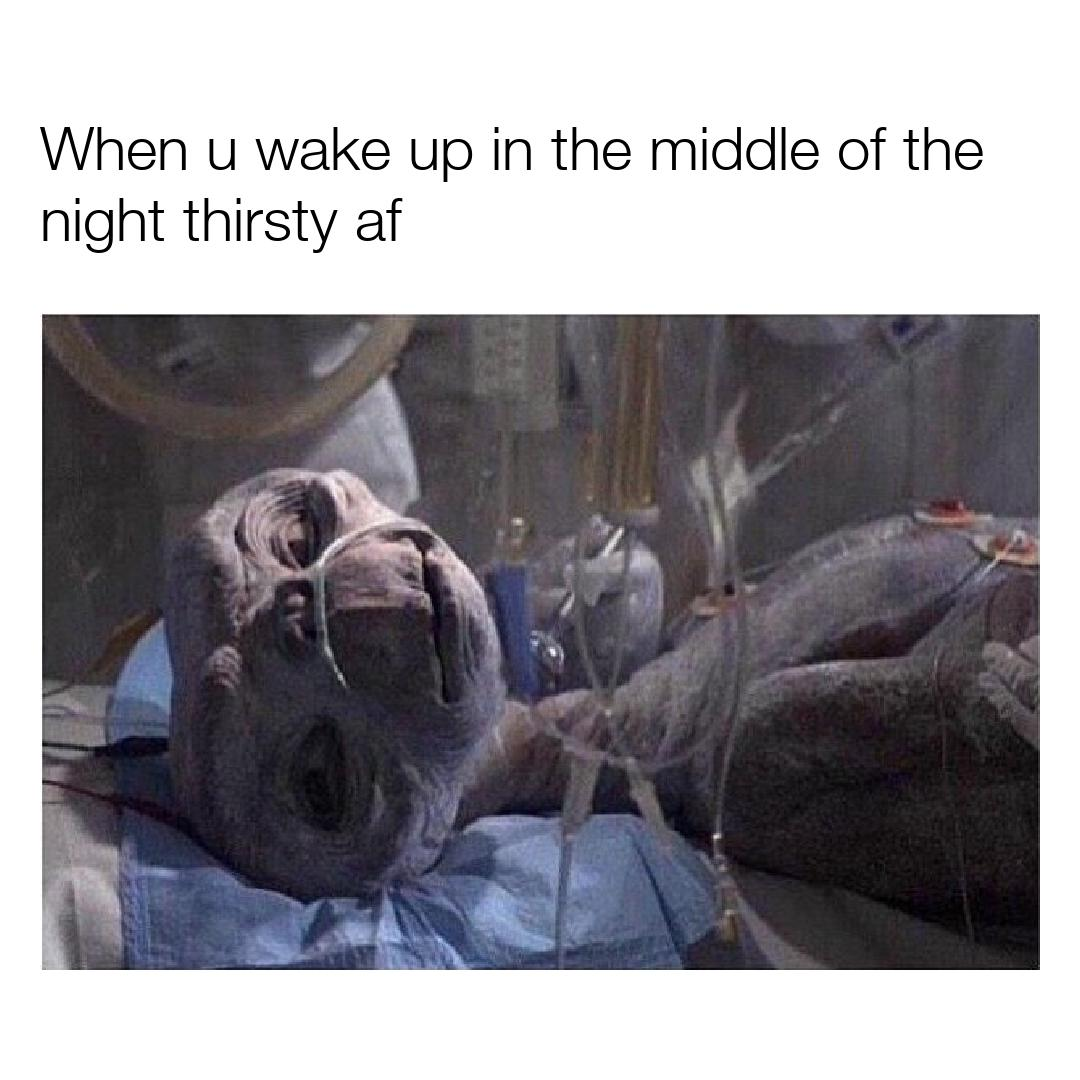
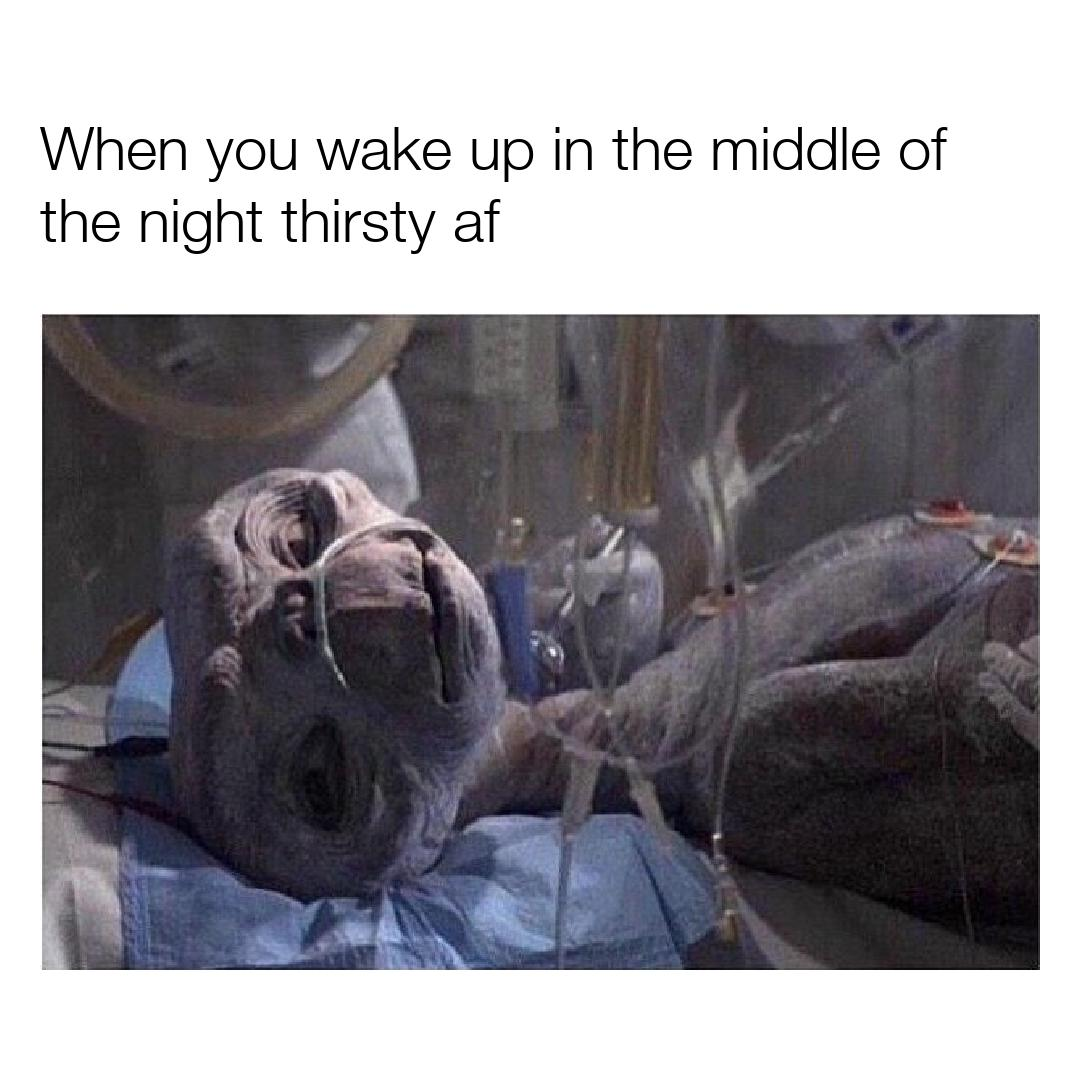
updated README.md

Changed region(s): [[0.0306, 0.1222, 0.9167, 0.2444]]

diff --git a/meme_text_ocr.py b/meme_text_ocr.py
@@ -50,8 +50,14 @@ def image_to_string(image):
 		del_file(input_file_name)
 		del_file(output_file_name)
 
+def spell_check(text):
+	text = text.replace(" u ", " you ").replace(' ur ', ' your ')
+	text = text.replace(text[0], text[0].upper(), 1)
+	return text
+
 def meme_text_ocr_main(filename):
 	image = Image.open(filename)
 	text = image_to_string(image)
 	text = text.replace('\n',' ').lower()
+	text = spell_check(text)
 	return text

diff --git a/README.md b/README.md
@@ -6,6 +6,52 @@ Recycles the meme images in a directory into reformatted memes.
 
 Memes can come in all shapes and sizes: 
 
-But sometimes we want to keep a simple format to our memes
+
+
+
+
+
+
+
+
+
+<img src="./docs/old_memes.jpg" width="1080px" alt="">
+
+
+
+
+
+
+
+
+
+
+
+But sometimes it is nice to keep a simple format:
+
+
+
+
+
+
+
+
+
+
+
+<img src="./docs/new_memes.jpg" width="1080px" alt="">
+
+
+
+
+
+
+
+
+
+
+
+
+
 
 
